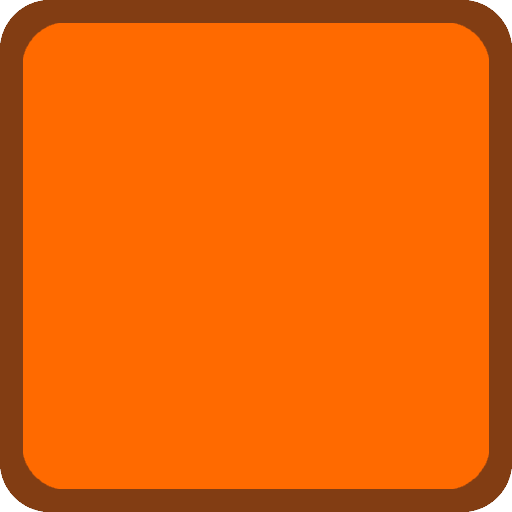
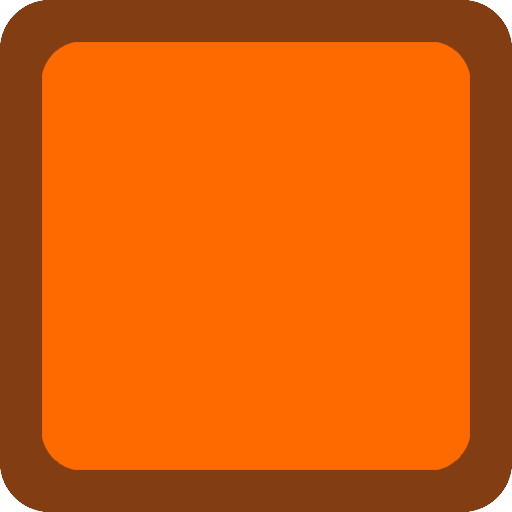
Use new player sprites

Changed region(s): [[0.0312, 0.0312, 0.9688, 0.9688]]

diff --git a/src/entities/Player.ts b/src/entities/Player.ts
@@ -11,12 +11,12 @@ import { TargetManagerUndoable } from './TargetManagerUndoable';
 import { targetManager } from './TargetManager';
 import { Box } from './Box';
 
-const PLAYER_MAX_SPEED = 200;
-const PLAYER_ACCELERATION = 800;
-const PLAYER_DECELERATION = 200;
+export type EyesDirection = 'right' | 'left' | 'up' | 'down' | 'none';
 
 export class Player {
-    public sprite: Phaser.GameObjects.Sprite;
+    public sprite: Phaser.GameObjects.Container;
+    private eyesSprite: Phaser.GameObjects.Sprite;
+    private eyesDirection: EyesDirection = 'none';
     private windowId: WindowID;
     private tileX: number;
     private tileY: number;
@@ -34,12 +34,20 @@ export class Player {
         this.tileSize = getTileSize();
         // Get MainScene reference
         this.mainScene = scene;
-        // Place sprite at correct position
-        this.sprite = scene.add.sprite(
+        // Create a container to group the player sprite and eyes sprite
+        this.sprite = scene.add.container(
             this.tileX * this.tileSize + this.tileSize / 2,
-            this.tileY * this.tileSize + this.tileSize / 2,
-            'player'
-        ).setDisplaySize(32, 32);
+            this.tileY * this.tileSize + this.tileSize / 2
+        );
+        const tileSize = getTileSize();
+        // Add player sprite to the container
+        const playerSprite = scene.add.sprite(0, 0, 'player').setDisplaySize(tileSize, tileSize);
+        this.sprite.add(playerSprite);
+        // Add eyes sprite to the container
+        this.eyesSprite = scene.add.sprite(0, 0, 'eyes').setDisplaySize(tileSize, tileSize);
+        this.sprite.add(this.eyesSprite);
+        this.eyesSprite.setDepth(1);
+        this.setEyes('none');
 
         this.isInWindow = windowId === 'left';
         this.sprite.alpha = this.isInWindow ? 1 : 0;
@@ -50,8 +58,33 @@ export class Player {
         return this.sprite;
     }
 
+    private setEyes(direction: EyesDirection) {
+        this.eyesDirection = direction;
+        switch (direction) {
+            case 'right':
+                this.eyesSprite.setTexture('eyes_right');
+                this.eyesSprite.setFlipX(false);
+                break;
+            case 'left':
+                this.eyesSprite.setTexture('eyes_right');
+                this.eyesSprite.setFlipX(true);
+                break;
+            case 'up':
+                this.eyesSprite.setTexture('eyes_up');
+                this.eyesSprite.setFlipX(false);
+                break;
+            case 'down':
+                this.eyesSprite.setTexture('eyes_down');
+                this.eyesSprite.setFlipX(false);
+                break;
+            default:
+                this.eyesSprite.setTexture('eyes');
+                this.eyesSprite.setFlipX(false);
+        }
+    }
+
     private setupBridgeListeners(scene: Phaser.Scene): void {
-        const handlePlayerUpdate = (data: PlayerPositionData) => {
+        const handlePlayerUpdate = (data: PlayerPositionData & { eyesDirection?: EyesDirection }) => {
             this._moveLock = true;
             if (data.windowId === this.windowId) {
                 this.isInWindow = true;
@@ -67,6 +100,11 @@ export class Player {
                 this.tileX * this.tileSize + this.tileSize / 2,
                 this.tileY * this.tileSize + this.tileSize / 2
             );
+            if (data.eyesDirection) {
+                this.setEyes(data.eyesDirection);
+            } else {
+                this.setEyes('none');
+            }
         };
         gameBridge.on(Events.PLAYER_POSITION_UPDATE, handlePlayerUpdate);
         scene.events.on(Phaser.Scenes.Events.SHUTDOWN, () => {
@@ -102,10 +140,11 @@ export class Player {
             return;
         }
         let dx = 0, dy = 0;
-        if (left) dx = -1;
-        else if (right) dx = 1;
-        else if (up) dy = -1;
-        else if (down) dy = 1;
+        let eyesDir: EyesDirection = 'none';
+        if (left) { dx = -1; eyesDir = 'left'; }
+        else if (right) { dx = 1; eyesDir = 'right'; }
+        else if (up) { dy = -1; eyesDir = 'up'; }
+        else if (down) { dy = 1; eyesDir = 'down'; }
         if (dx !== 0 || dy !== 0) {
             this._moveLock = true;
             // Find last empty tile in this direction
@@ -188,12 +227,14 @@ export class Player {
                     weightManager.leftWeight -= 0.5;
                 }
             }
-            undoManager.register(new PlayerStateUndoable(this.tileX, this.tileY, this.windowId));
+            undoManager.register(new PlayerStateUndoable(this.tileX, this.tileY, this.windowId, this.eyesDirection));
+            this.setEyes(eyesDir);
             undoManager.beginNewStep();
             gameBridge.emit(Events.PLAYER_POSITION_UPDATE, {
                 x: nextX,
                 y: nextY,
-                windowId: currentWindowId
+                windowId: currentWindowId,
+                eyesDirection: eyesDir
             });
 
             console.log("Checking if player target is filled...");

diff --git a/src/entities/PlayerStateUndoable.ts b/src/entities/PlayerStateUndoable.ts
@@ -2,24 +2,27 @@ import { Undoable } from '../undo/Undoable';
 import { WindowID } from '../GameBridge';
 import { gameBridge } from '../GameBridge';
 import { Events } from '../GameBridge';
+import { EyesDirection } from './Player';
 
 export class PlayerStateUndoable implements Undoable {
     private tileX: number;
     private tileY: number;
     private windowId: WindowID;
+    private eyesDirection: EyesDirection;
 
-
-    constructor(tileX: number, tileY: number, windowId: WindowID) {
+    constructor(tileX: number, tileY: number, windowId: WindowID, eyesDirection: EyesDirection = 'none') {
         this.tileX = tileX;
         this.tileY = tileY;
         this.windowId = windowId;
+        this.eyesDirection = eyesDirection;
     }
 
     undo(): void {
         gameBridge.emit(Events.PLAYER_POSITION_UPDATE, {
             x: this.tileX,
             y: this.tileY,
-            windowId: this.windowId
+            windowId: this.windowId,
+            eyesDirection: this.eyesDirection
         });
     }
 }

diff --git a/src/scenes/MainScene.ts b/src/scenes/MainScene.ts
@@ -88,7 +88,7 @@ export default class MainScene extends Phaser.Scene {
 
 
     preload(): void {
-        this.load.image('player', 'assets/playerFront.png');
+        this.load.image('player', 'assets/player.png');
         this.load.image('lightOrb', 'assets/lightOrb.png');
         this.load.image('darkOrb', 'assets/darkOrb.png');
         this.load.image('lightTeleporter', 'assets/lightTeleporter.png');

diff --git a/src/game.ts b/src/game.ts
@@ -1,5 +1,5 @@
-export const WINDOW_WIDTH = 378;
-export const WINDOW_HEIGHT = 486;
+export const WINDOW_WIDTH = 490;
+export const WINDOW_HEIGHT = 630;
 
 import Phaser from 'phaser';
 import MainScene from './scenes/MainScene';
